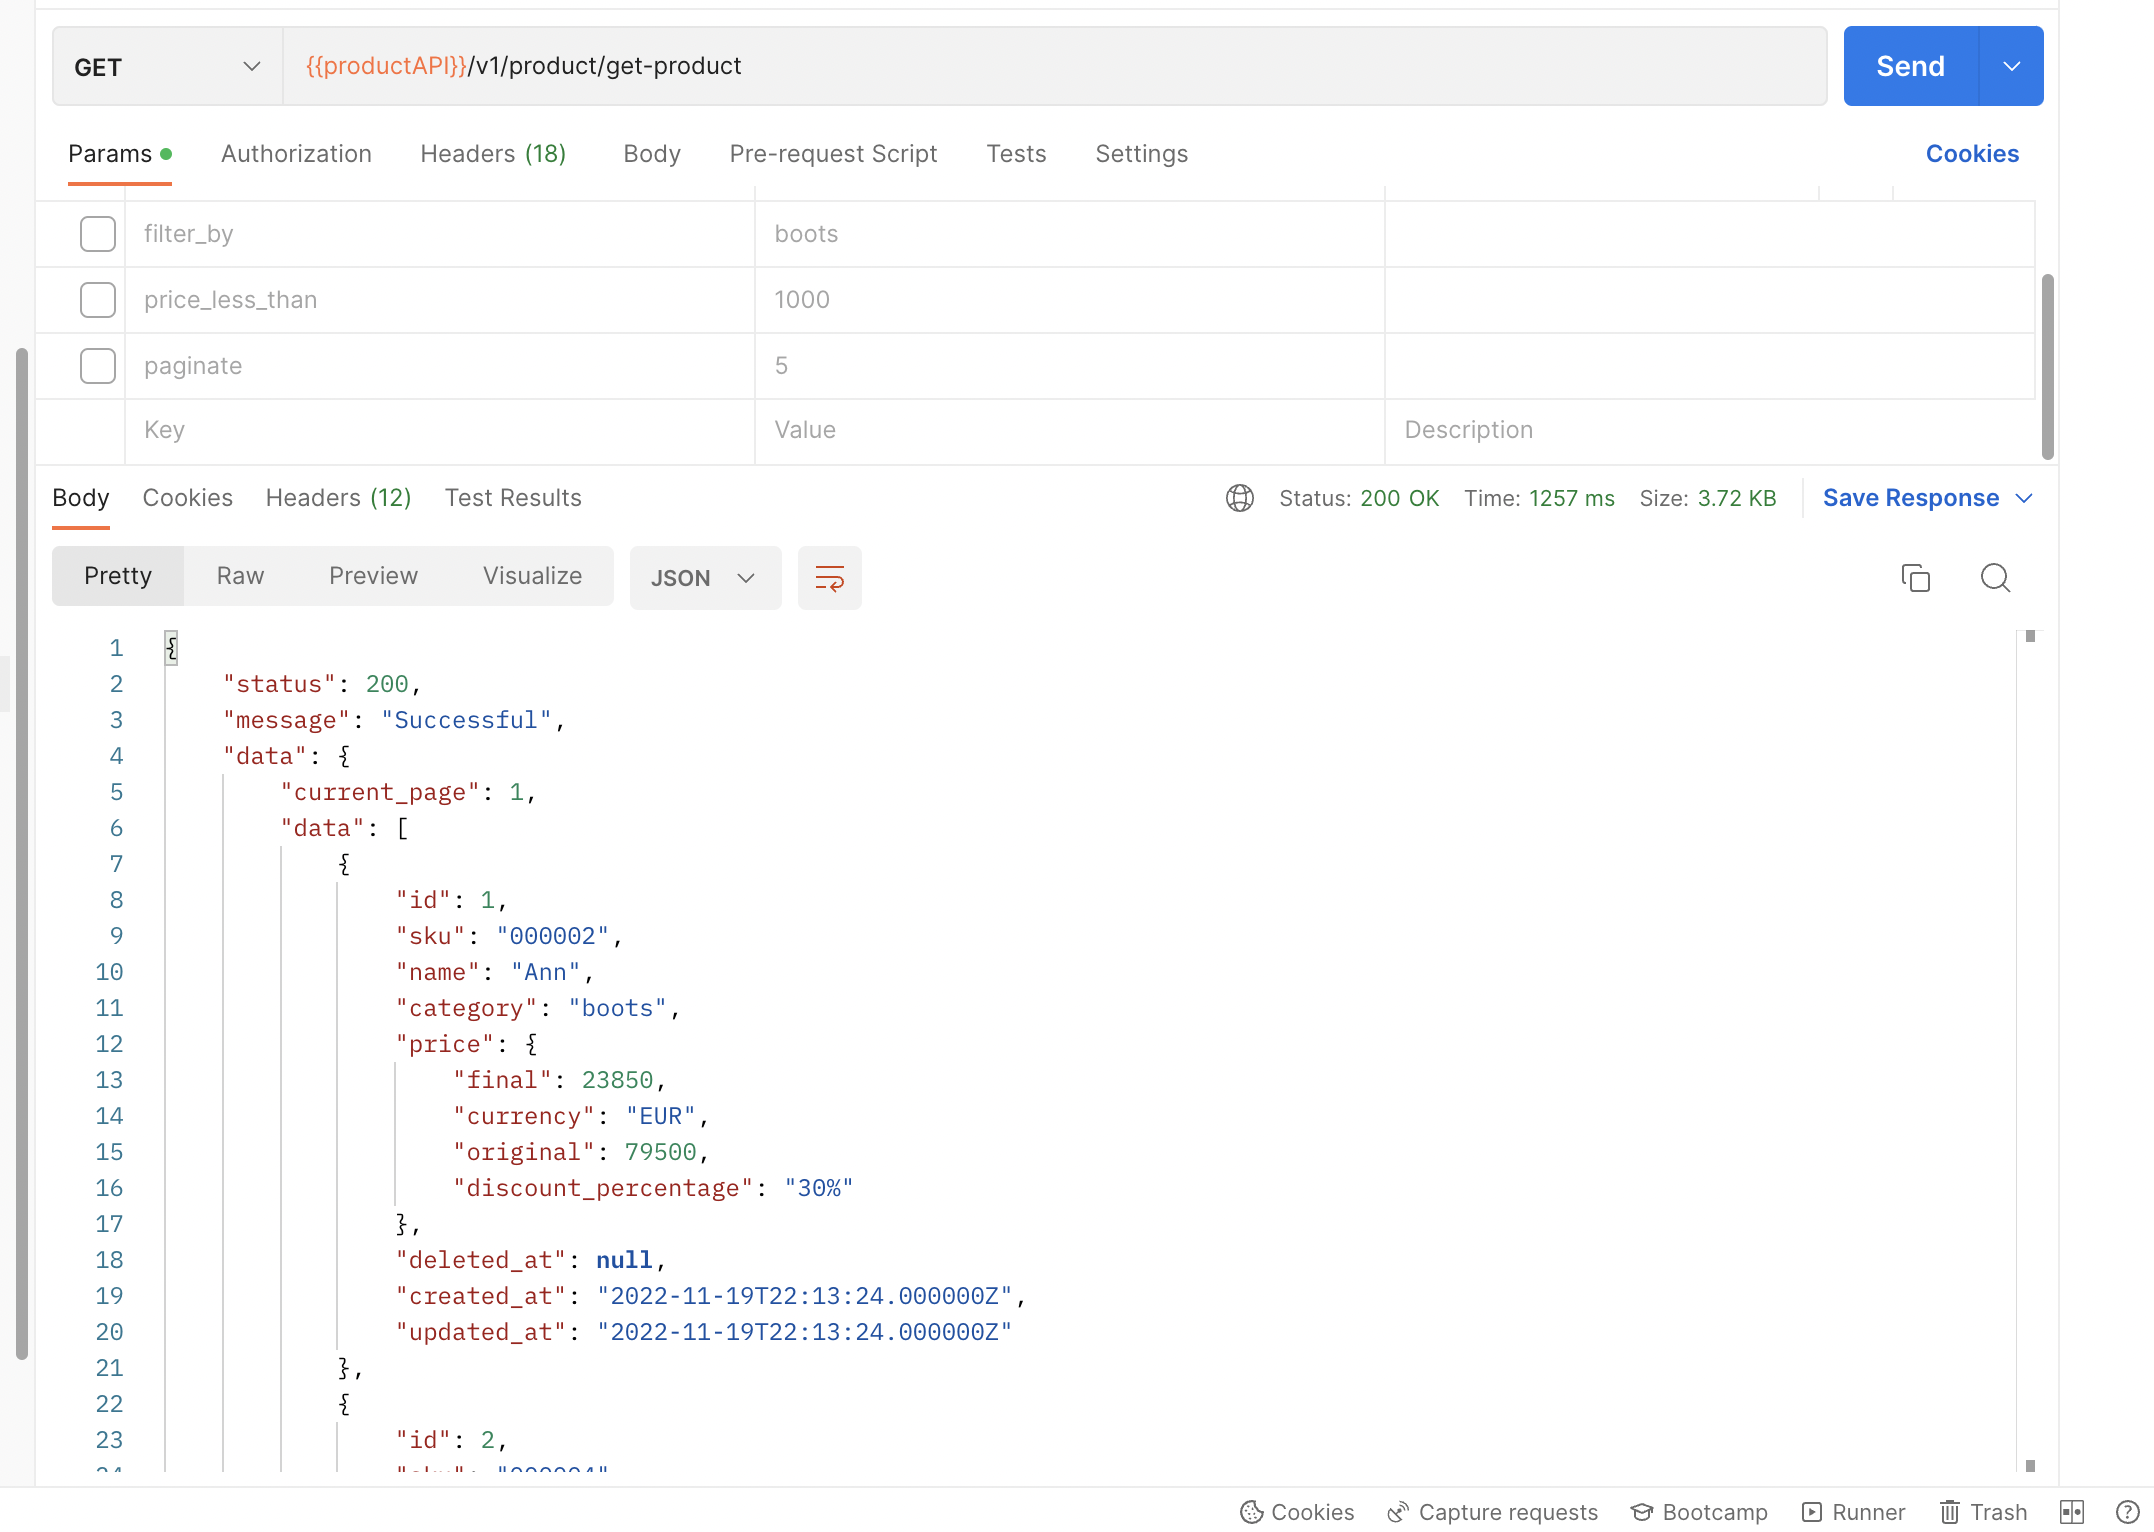
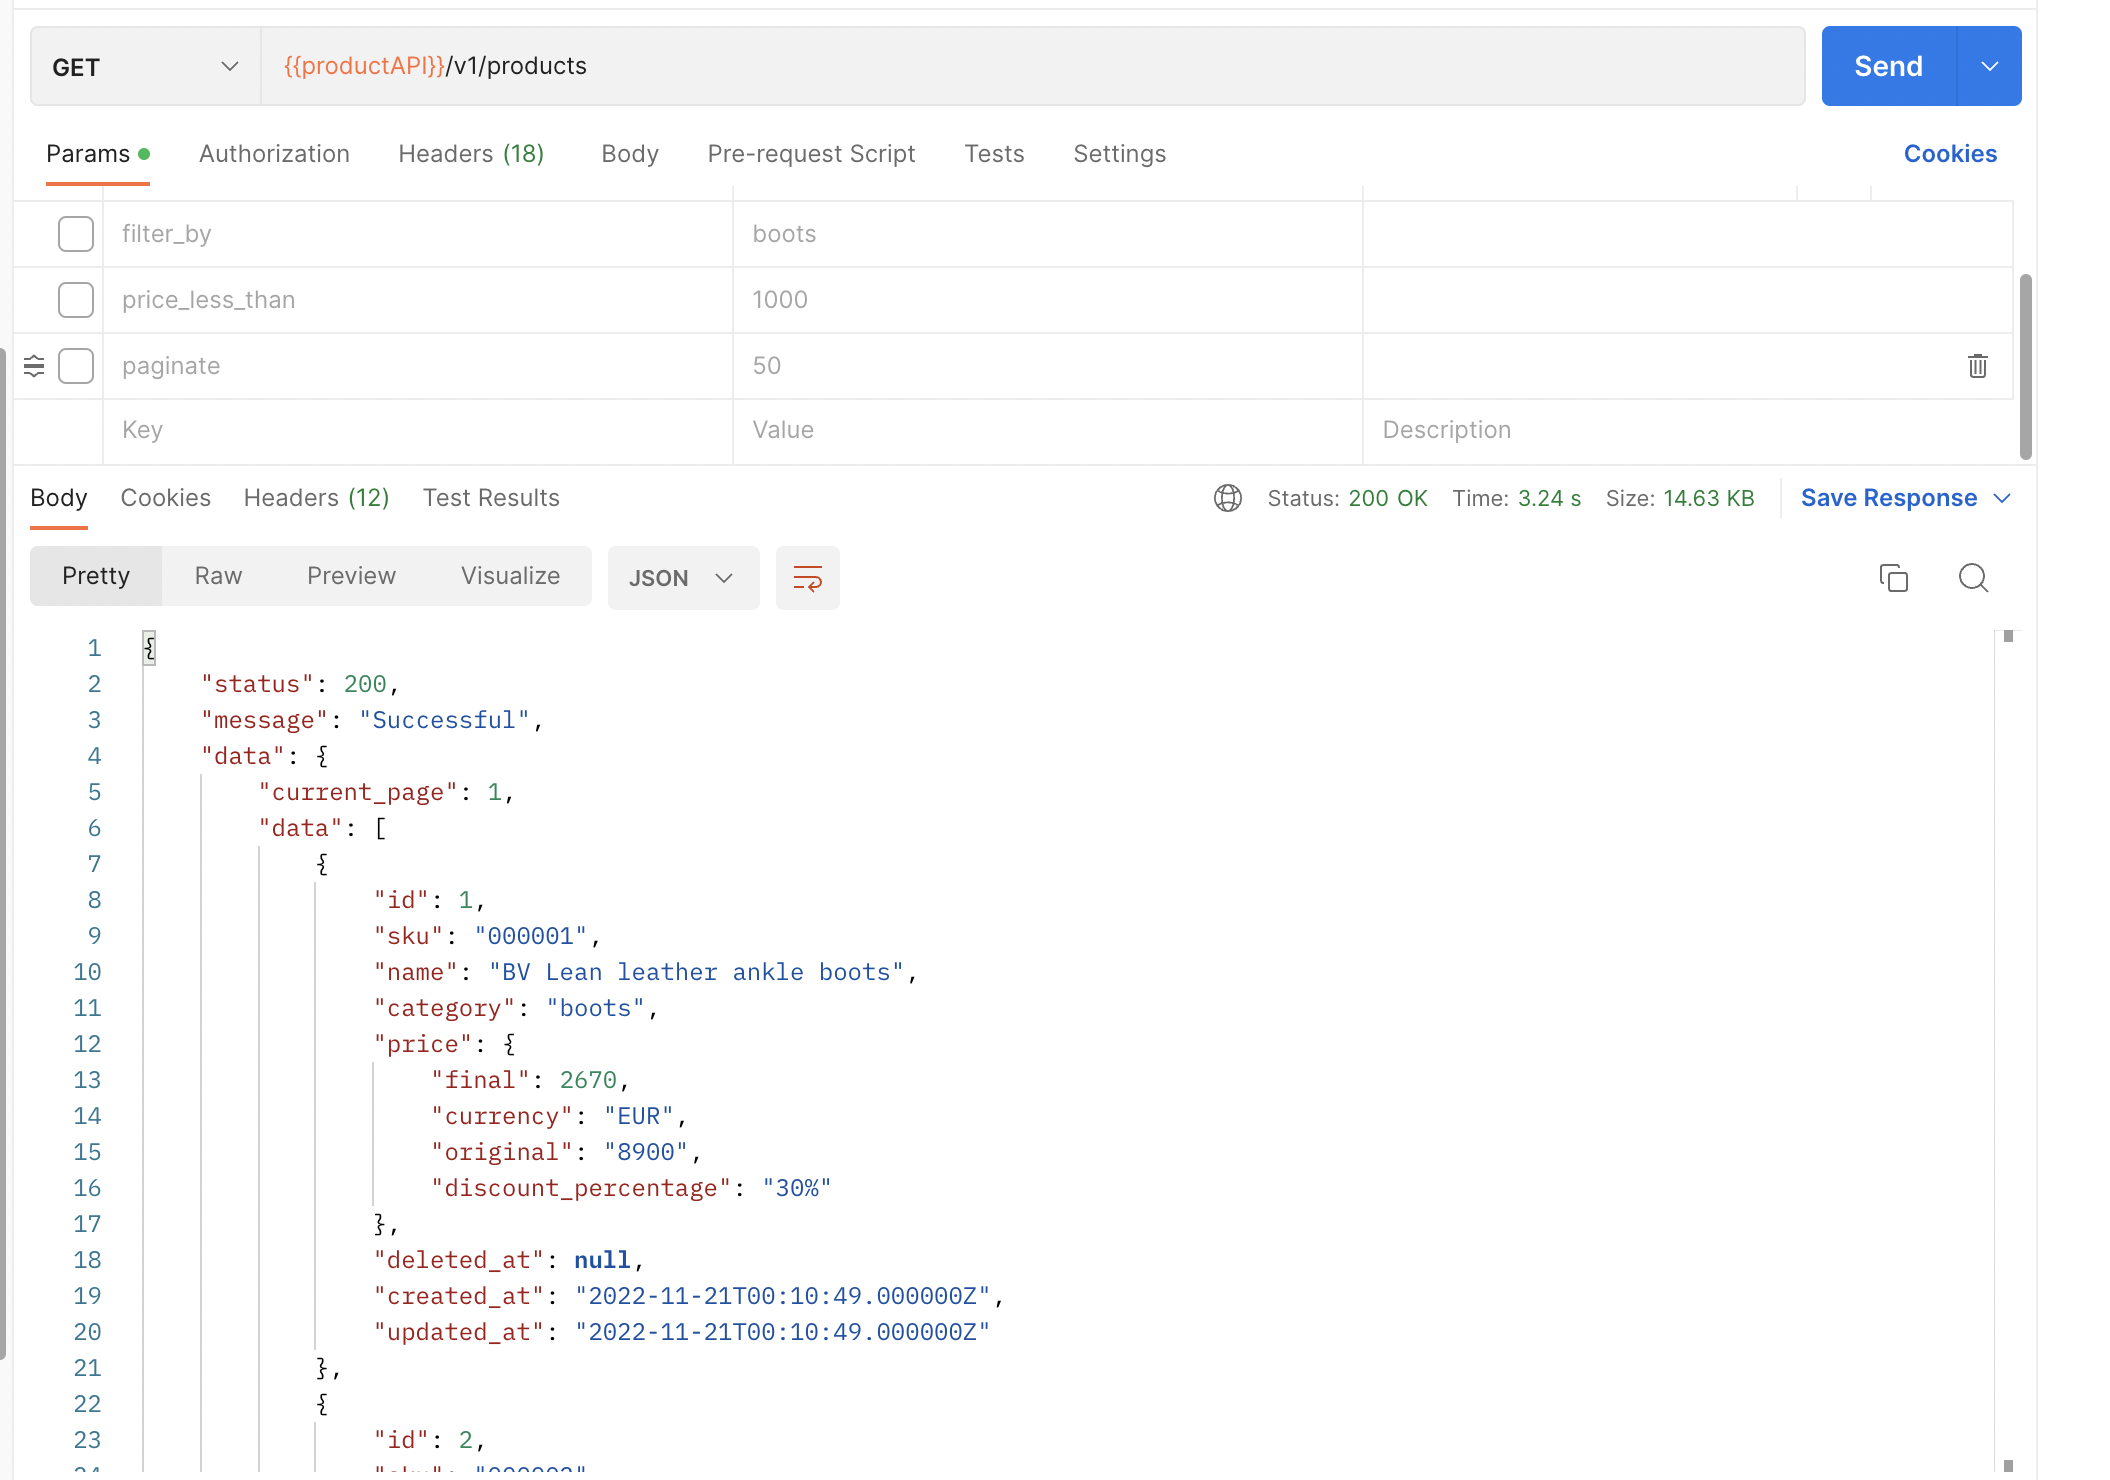
update api route and versioning

diff --git a/routes/api.php b/routes/api.php
@@ -19,6 +19,6 @@ Route::middleware('auth:sanctum')->get('/user', function (Request $request) {
     return $request->user();
 });
 
-Route::group(['prefix' => 'v1/product'], function () {
-    Route::get('/get-product', [ProductController::class, 'show'])->name('get-product');
+Route::group(['prefix' => 'v1'], function () {
+    Route::get('/products', [ProductController::class, 'show'])->name('get-products');
 });

diff --git a/tests/Unit/ProductTest.php b/tests/Unit/ProductTest.php
@@ -69,7 +69,7 @@ class ProductTest extends TestCase
 
     public function test_list_all_product()
     {
-        $response = $this->get(route('get-product'));
+        $response = $this->get(route('get-products'));
         $response->assertJson(fn (AssertableJson $json) =>
             $json->hasAll(['status', 'data', 'message'])
         );

diff --git a/README.md b/README.md
@@ -90,7 +90,7 @@ The application covers the following use case
 <li> To retrieve the paginated list of products  </li>
 
 <pre>
-    GET /products 
+    GET v1/products 
 
     (optional) paginate - 10 
     (optional) filter_by - 'boots' 
